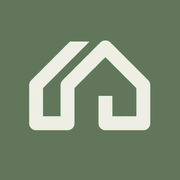
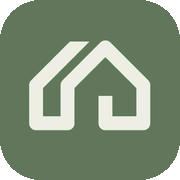
上午2:40：電腦版 App 圖示綠色背景改成圓角

diff --git a/index.html b/index.html
@@ -11,12 +11,12 @@
   <meta name="apple-mobile-web-app-status-bar-style" content="default" />
   <meta name="apple-mobile-web-app-title" content="統潔＆信潔開發" />
   <link rel="manifest" href="manifest.json" />
-  <link rel="apple-touch-icon" href="apple-touch-icon.png?v=1172" />
+  <link rel="apple-touch-icon" href="apple-touch-icon.png?v=1173" />
   <link rel="preload" as="image" href="images/asset-map.webp" fetchpriority="high" />
   <title>統潔＆信潔開發有限公司 — 租房管理</title>
-  <link rel="stylesheet" href="app.css?v=1172" />
-  <link rel="stylesheet" href="plan-icon.css?v=1172" />
-  <link rel="stylesheet" href="work-scroll.css?v=1172" />
+  <link rel="stylesheet" href="app.css?v=1173" />
+  <link rel="stylesheet" href="plan-icon.css?v=1173" />
+  <link rel="stylesheet" href="work-scroll.css?v=1173" />
   <style>
     html, body { margin: 0; background: #ffffff; }
     #splash {
@@ -53,8 +53,8 @@
       catch (e) { return false; }
     }
   </script>
-  <script src="app.js?v=1172"></script>
-  <script src="work-enhance.js?v=1172"></script>
+  <script src="app.js?v=1173"></script>
+  <script src="work-enhance.js?v=1173"></script>
   <script>setTimeout(function(){ var s=document.getElementById("splash"); if(s) s.classList.add("out"); }, 3500);</script>
 </body>
 </html>

diff --git a/sw.js b/sw.js
@@ -1,5 +1,5 @@
-const CACHE = "tongjie-app-v1687";
-const BUILD = "20260930-1172";
+const CACHE = "tongjie-app-v1688";
+const BUILD = "20260930-1173";
 const FILES = ["/", "/index.html", "/app.css", "/app.js", "/work-scroll.css", "/work-enhance.js", "/manifest.json", "/icon-192.png", "/icon-512.png", "/icon-maskable-512.png", "/images/asset-map.webp"];
 self.addEventListener("install", e => {
   self.skipWaiting();

diff --git a/plan-icon.css b/plan-icon.css
@@ -1,6 +1,6 @@
 .move-pick-plan {
   background-color: #62765b;
-  -webkit-mask: url("images/plan-mark.png?v=1172") center / 20px 20px no-repeat;
-  mask: url("images/plan-mark.png?v=1172") center / 20px 20px no-repeat;
+  -webkit-mask: url("images/plan-mark.png?v=1173") center / 20px 20px no-repeat;
+  mask: url("images/plan-mark.png?v=1173") center / 20px 20px no-repeat;
 }
 .move-pick-plan img { opacity: 0; }
